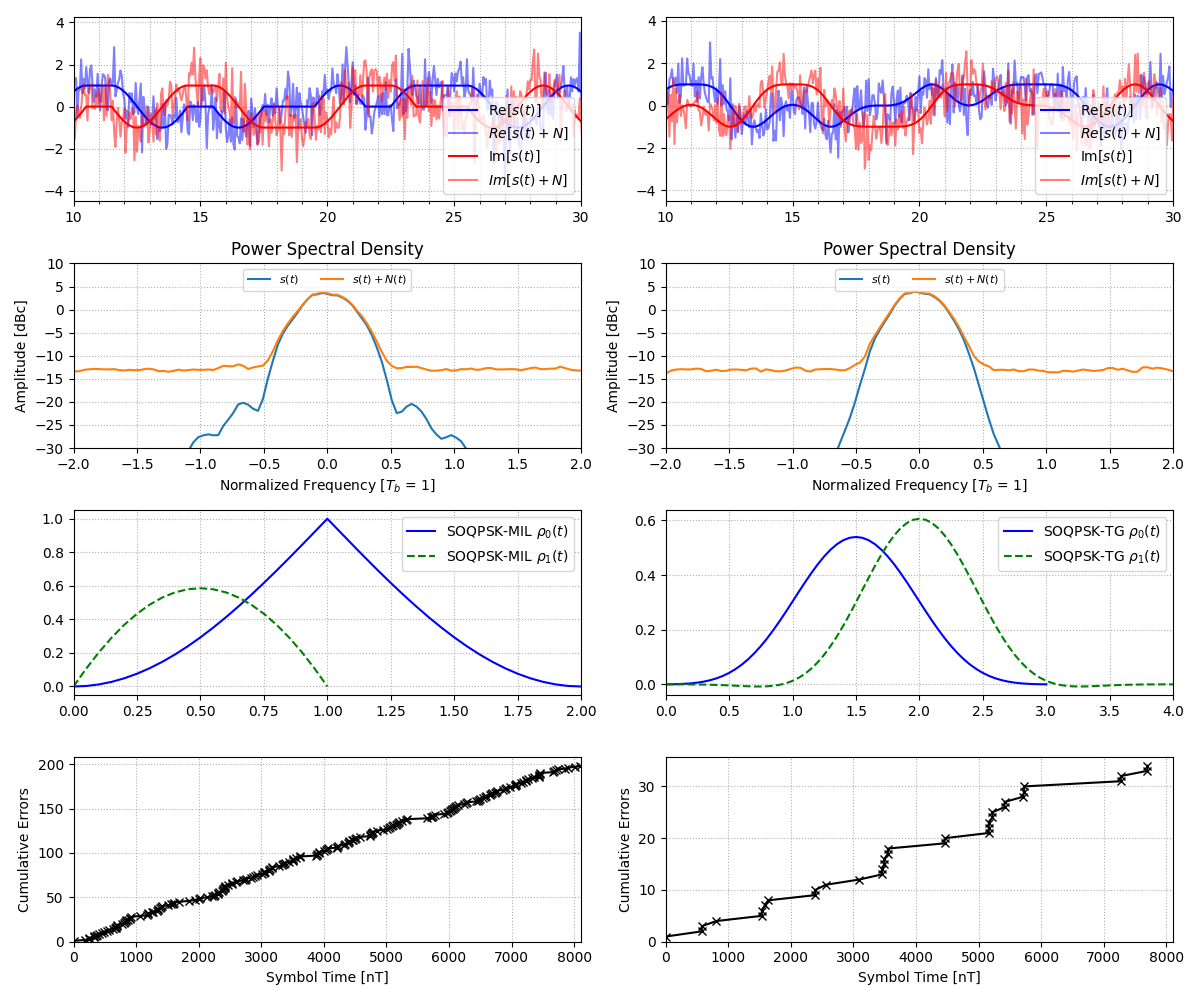
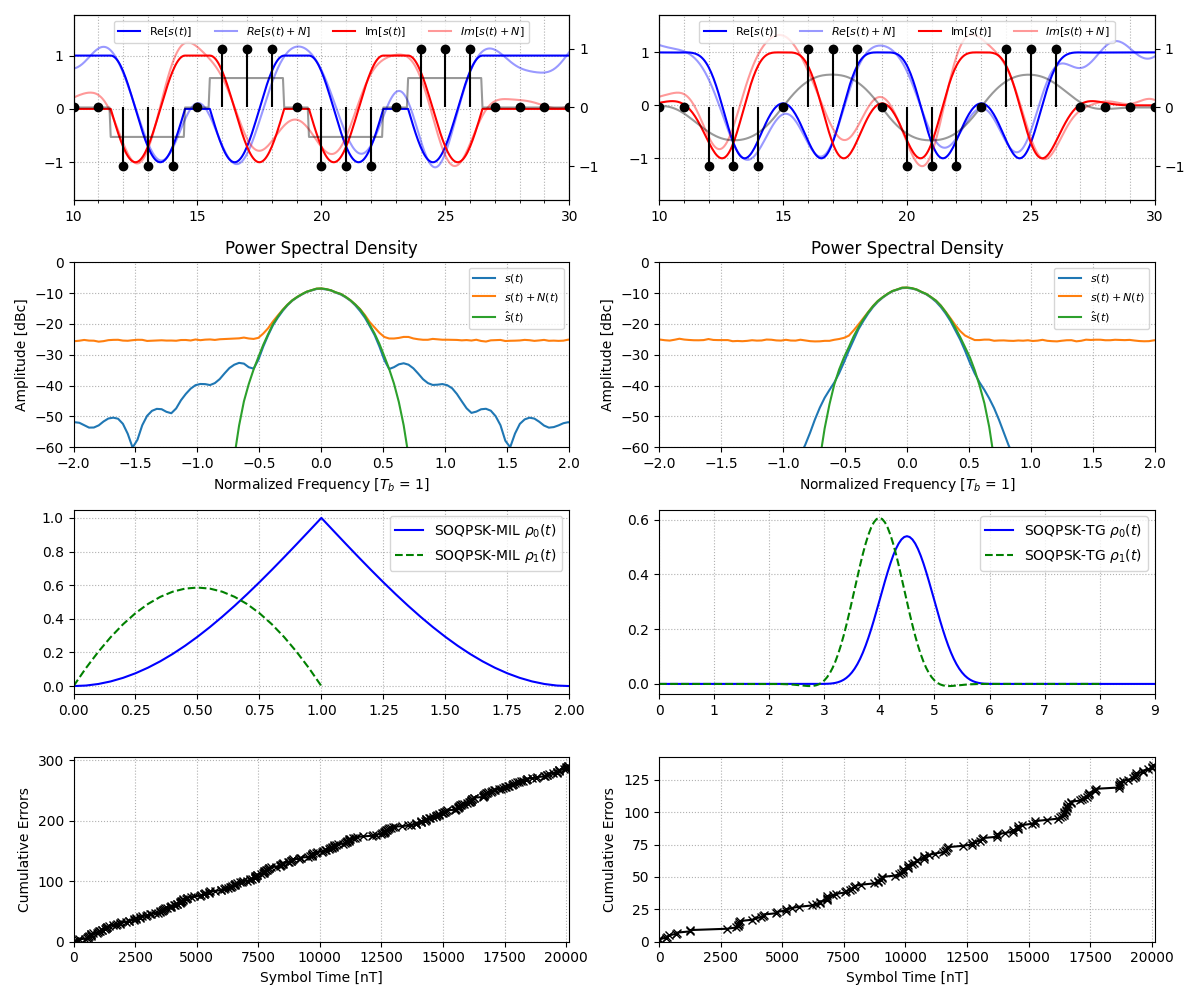
Applying a low-pass filter on the received signal, fixed timing issue for branch increments.

diff --git a/examples/soqpsk_pam.py b/examples/soqpsk_pam.py
@@ -15,10 +15,13 @@ from waveforms.cpm.soqpsk import (
 )
 from waveforms.cpm.modulate import cpm_modulate
 from waveforms.cpm.pamapprox import rho_pulses
+from waveforms.lpf import kaiser_fir_lpf
 
-
-DATA_HEADER = b"\x1b\x1bHello World!"
-DATA_EXTRA = bytes([random.randint(0,0xff) for i in range(1000)])
+# Set seeds so iterations on implementation can be compared better
+random.seed(1)
+np.random.seed(1)
+DATA_HEADER = b"\x00\x1b\x1b\x00Hello World!"
+DATA_EXTRA = bytes([random.randint(0,0xff) for i in range(2500)])
 DATA_BUFFER = DATA_HEADER + DATA_EXTRA
 j = complex(0, 1)
 
@@ -29,7 +32,8 @@ if __name__ == "__main__":
     fft_size = 2**9
     pulse_pad = 0.5
     P = 4
-    lpf = np.ones(1)  # Placeholder low pass filter
+    # lpf = np.ones(1)  # Placeholder low pass filter
+    lpf = kaiser_fir_lpf(sps, 0.50)
 
     # Bits of information to transmit
     bit_array = np.unpackbits(np.frombuffer(DATA_BUFFER, dtype=np.uint8))
@@ -44,7 +48,7 @@ if __name__ == "__main__":
         ax.grid(which="both", linestyle=":")
 
     # Generate pseudo-symbols
-    pseudo_symbols = np.array([  # [k, l]
+    pseudo_symbols = np.array([
         [-j, 1, j],
         [np.sqrt(2)/2*(1-j), np.sqrt(2)/2, np.sqrt(2)/2*(1+j)],
     ], dtype=np.complex128)
@@ -81,23 +85,46 @@ if __name__ == "__main__":
 
         # Display transmitted and received signal in the time domain
         iq_ax.plot(normalized_time, modulated_signal.real, "b-", alpha=1.0, label=r"Re[$s(t)]$")
-        iq_ax.plot(normalized_time, received_signal.real, "b-", alpha=0.5, label=r"$Re[s(t)+N]$")
+        iq_ax.plot(normalized_time, received_signal.real, "b-", alpha=0.4, label=r"$Re[s(t)+N]$")
         iq_ax.plot(normalized_time, modulated_signal.imag, "r-", alpha=1.0, label=r"Im[$s(t)]$")
-        iq_ax.plot(normalized_time, received_signal.imag, "r-", alpha=0.5, label=r"$Im[s(t)+N]$")
+        iq_ax.plot(normalized_time, received_signal.imag, "r-", alpha=0.4, label=r"$Im[s(t)+N]$")
+
+        pulse_ax = iq_ax.twinx()
+        pulse_ax.stem(normalized_time[::sps][1:-1], symbols, markerfmt="ko", linefmt="k-", basefmt=" ", label="Symbol")
+        pulse_ax.plot(normalized_time[:-1], freq_pulses, "k-", alpha=0.4, label="Frequency Pulses")
+        pulse_ax.set_ylim(-np.pi/2, np.pi/2)
 
         # Display transmitted and received signal PSD to illustrate SNR
-        psd_ax.psd(
+        pxx_tx, freqs = psd_ax.psd(
             modulated_signal,
             NFFT=fft_size,
             Fs=sps,
             label="$s(t)$",
+            scale_by_freq=False,
+        )
+        pxx_specan, freqs = psd_ax.psd(
+            modulated_signal + noise,
+            NFFT=fft_size,
+            Fs=sps,
+            label="$s(t) + N(t)$",
+            scale_by_freq=False,
         )
         psd_ax.psd(
             received_signal,
             NFFT=fft_size,
             Fs=sps,
-            label="$s(t) + N(t)$",
+            label=r"$\hat{s}(t)$",
+            scale_by_freq=False,
         )
+
+        # Spectrum Analyzer style Eb/N0 measurement
+        marker1 = 10 * np.log10(pxx_specan[fft_size//2])
+        marker2 = 10 * np.log10(pxx_specan[-1])
+        rbw = sps/fft_size
+        c0n0 = marker1 - 10 * np.log10(rbw)
+        n0 = marker2 - 10 * np.log10(rbw)
+        c0 = 10 * np.log10(np.power(10, c0n0/10) - np.power(10, n0/10))
+        ebn0 = c0 - 2.95 - 0 - n0 
 
         # PAM De-composition
         rho = rho_pulses(
@@ -106,14 +133,8 @@ if __name__ == "__main__":
             sps,
             k_max=2
         )
-
-        # truncate zeros, not essential but useful for efficient FPGA implementation
-        if label == "TG":
-            rho: List[NDArray[np.float64]] = [
-                rho_k[int((rho_k.size-nt*sps)/2):int((rho_k.size+nt*sps)/2)+1]
-                for rho_k, nt in zip(rho, (3, 4))
-            ]
         d_max = max([rho_k.size for rho_k in rho])
+        L = int(pulse_filter.size/sps)
 
         # Branch metric increment history and cumulative winning phase state
         z_n_history = []
@@ -123,16 +144,19 @@ if __name__ == "__main__":
             n = int(n)
             # Timing recovery (for now we live in an perfectly synchronized world)
             # TODO implement timing and phase recovery, along with introduced imperfections
-            if (n + sps/2) % sps:
+            if (n + L*sps/2) % sps:
                 continue
 
             # Branch increments - Iterate over hypothetical symbols
             z_n = np.zeros(3)
+            y_arr = np.zeros((3, d_max), np.complex128)
             for sym_idx in range(3):
-                y_n = 0
+                y_n = np.zeros(d_max, dtype=np.complex128)
                 for k, rho_k in enumerate(rho):
-                    y_n += np.sum(received_signal[n:n+rho_k.size] * rho_k * np.conj(pseudo_symbols[k,sym_idx]))
-                z_ln = np.real(np.exp(-j * 2 * np.pi * (phase_idx % P) / P) * y_n)
+                    # rho_k.size = sps*(L+1-k)+1 when not truncated
+                    y_n[:rho_k.size] += received_signal[n:n+rho_k.size] * rho_k * np.conj(pseudo_symbols[k,sym_idx])
+                y_arr[sym_idx] = y_n
+                z_ln = np.real(np.exp(-j * 2 * np.pi * (phase_idx % P) / P) * np.sum(y_n))
                 z_n[sym_idx] = z_ln
 
             z_n_history.append(z_n)
@@ -143,7 +167,7 @@ if __name__ == "__main__":
         # Display cumulative detection error count
         t = np.linspace(0, symbols.size-1, num=symbols.size)
         recovered: NDArray[np.int8] = np.argmin(np.array(z_n_history)**2, axis=1) - 1
-        start_offset = int(label == "TG")
+        start_offset = int(label == "TG") * 3  # TODO make this a function of L and d_max
         error_idx, = np.where(symbols[start_offset:recovered.size+start_offset] - recovered)
         errors_ax.plot(t[error_idx], np.cumsum(np.ones(error_idx.shape)), color="k", marker="x")
 
@@ -160,8 +184,8 @@ if __name__ == "__main__":
 
     for ax in iq_axes[0, :]:
         ax: Axes
-        ax.legend()
         ax.set_xlim([10, 30])
+        ax.legend(loc="upper center", fontsize=8, ncols=4)
         ax.xaxis.set_major_locator(MultipleLocator(5))
         ax.xaxis.set_minor_locator(MultipleLocator(1))
 
@@ -169,10 +193,10 @@ if __name__ == "__main__":
         psd_ax.set_title("Power Spectral Density")
         psd_ax.set_ylabel('Amplitude [dBc]')
         psd_ax.set_xlabel('Normalized Frequency [$T_b$ = 1]')
-        psd_ax.set_ylim([-30, 10])
-        psd_ax.yaxis.set_major_locator(MultipleLocator(5))
+        psd_ax.set_ylim([-60, 0])
+        psd_ax.yaxis.set_major_locator(MultipleLocator(10))
         psd_ax.set_xlim([-2, 2])
-        psd_ax.legend(loc="upper center", fontsize=8, ncol=3)
+        psd_ax.legend(loc="upper right", fontsize=8, ncol=1)
         psd_ax.xaxis.set_major_locator(MultipleLocator(0.5))
         psd_ax.grid(which="both", linestyle=":")
 
@@ -190,3 +214,9 @@ if __name__ == "__main__":
     fig_eye.tight_layout()
     fig_eye.savefig(Path(__file__).parent.parent / "images" / "soqpsk_pam.png")
     fig_eye.show()
+
+    """
+    for i, c in zip(range(3), "rgb"):
+        for ls, yi in zip("-:", (y_arr[i].real, y_arr[i].imag)):
+            ax.plot(yi, linestyle=ls, color=c)
+    """
